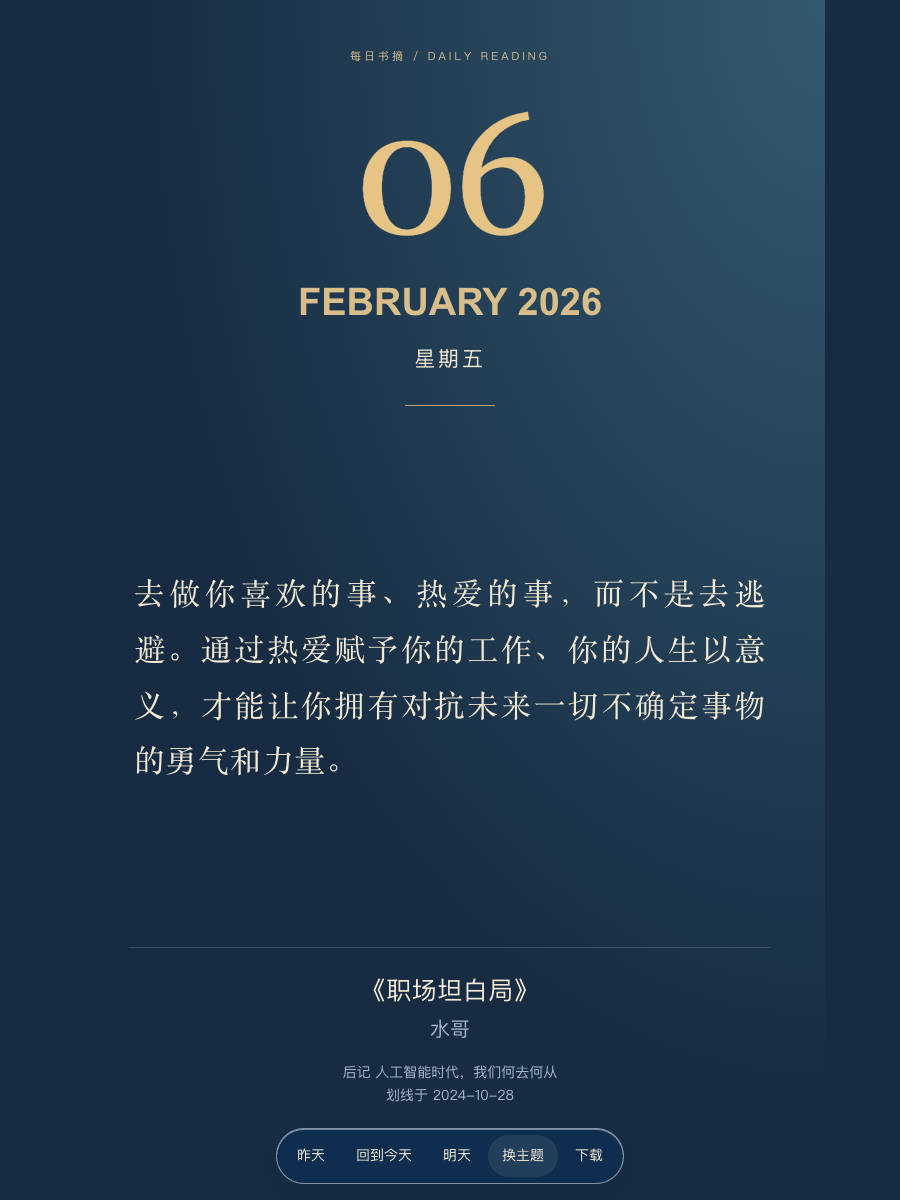
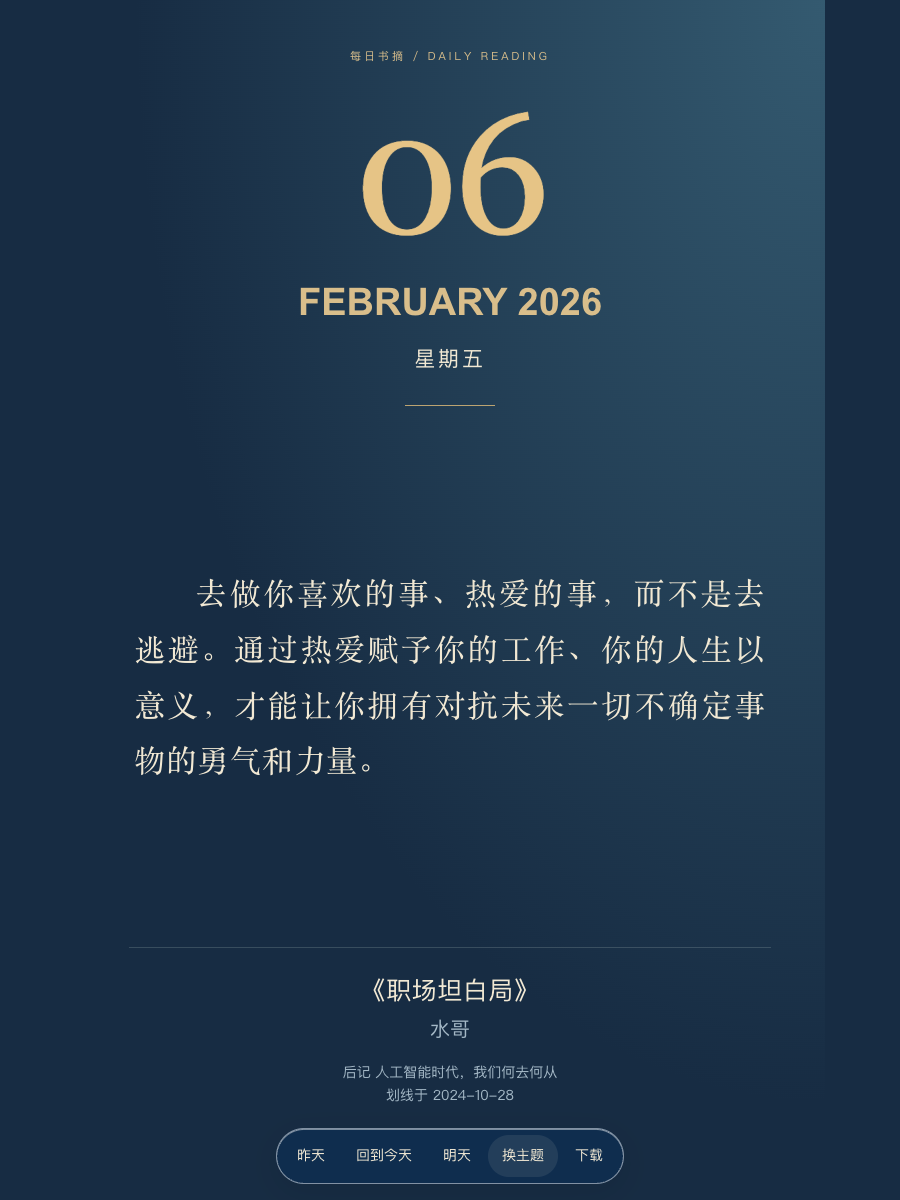
Indent excerpt first lines by two characters

Changed region(s): [[0.1556, 0.4625, 0.84, 0.6475]]

diff --git a/docs/layout.css b/docs/layout.css
@@ -9,7 +9,7 @@ html body .card .month{font-size:clamp(20px,3.5vh,38px)!important;line-height:1.
 html body .card .weekday{font-size:clamp(14px,2vh,21px);line-height:1.4;margin:clamp(8px,1.6vh,18px) 0 0}
 html body .card>.rule{flex:none;margin:clamp(14px,2.8vh,32px) auto;height:1px}
 html body .card>.quote{display:flex;flex-direction:column;flex:1 1 0;min-height:0;margin:0;padding:8px 5px 12px;overflow:auto;overscroll-behavior:contain;border:0;box-shadow:none;border-radius:0;background:transparent;scrollbar-width:thin}
-html body .card .quote-text{flex:none;display:block;width:100%;margin:auto 0;text-align:justify;overflow-wrap:anywhere;font-size:var(--quote-font,23px)!important;line-height:1.8!important;letter-spacing:1px;white-space:pre-line}
+html body .card .quote-text{flex:none;display:block;width:100%;margin:auto 0;text-align:justify;text-indent:2em;overflow-wrap:anywhere;font-size:var(--quote-font,23px)!important;line-height:1.8!important;letter-spacing:1px;white-space:pre-line}
 html[data-theme=pop] body .card .quote-text{width:calc(100% - 8px);padding:clamp(12px,2vh,24px);background:#fff8e9;border:2px solid #4c3b97;border-radius:4px;box-shadow:6px 6px 0 #4c3b97}
 html body .card>.source{flex:none;margin-top:clamp(14px,2.4vh,28px);padding-top:clamp(12px,2vh,24px);max-height:30vh;overflow:auto;scrollbar-width:thin}
 html body .card .book{font-size:clamp(17px,2.6vh,25px);line-height:1.5;letter-spacing:.5px}
